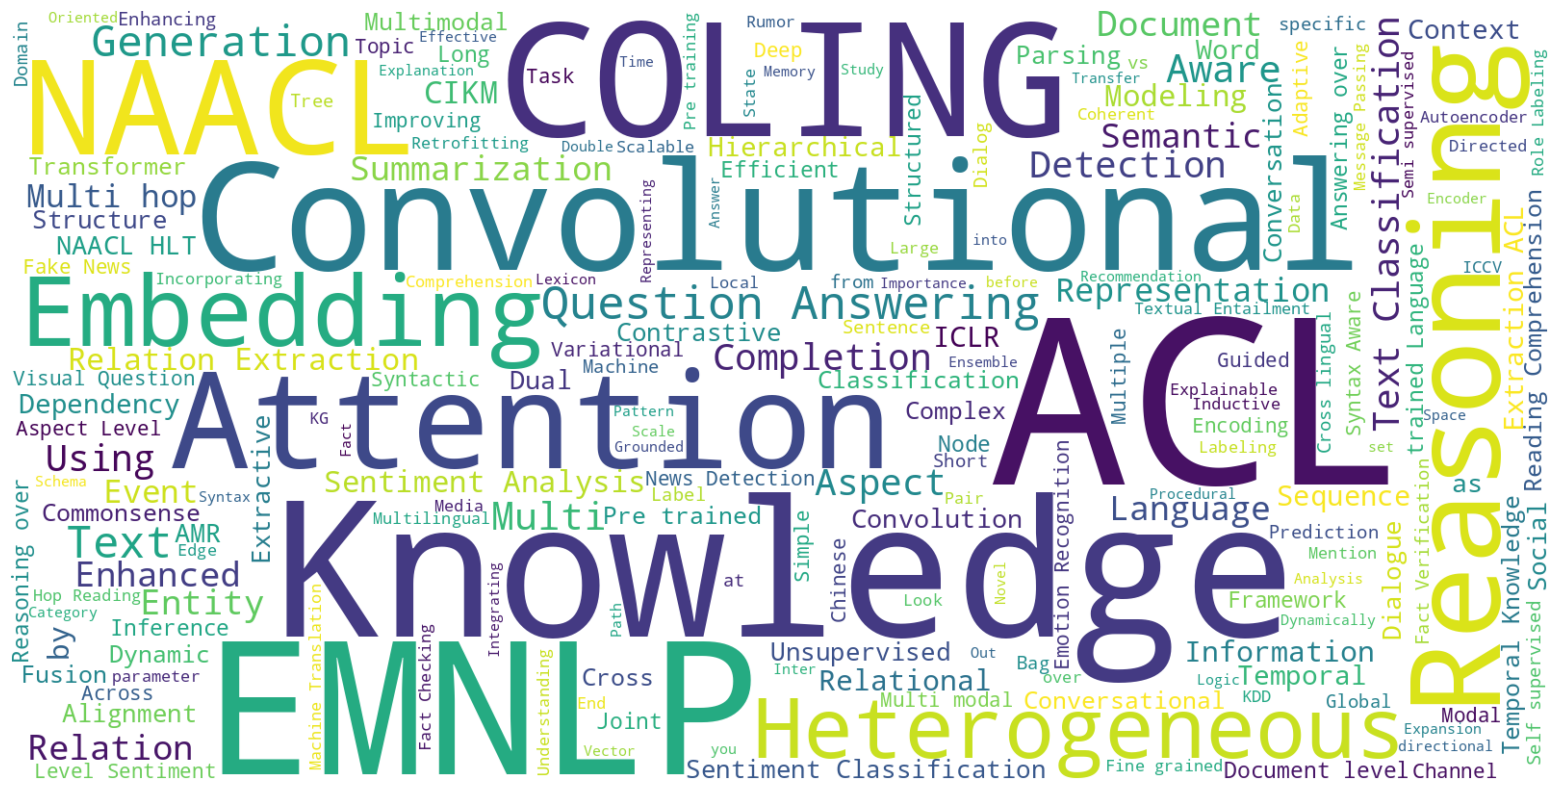
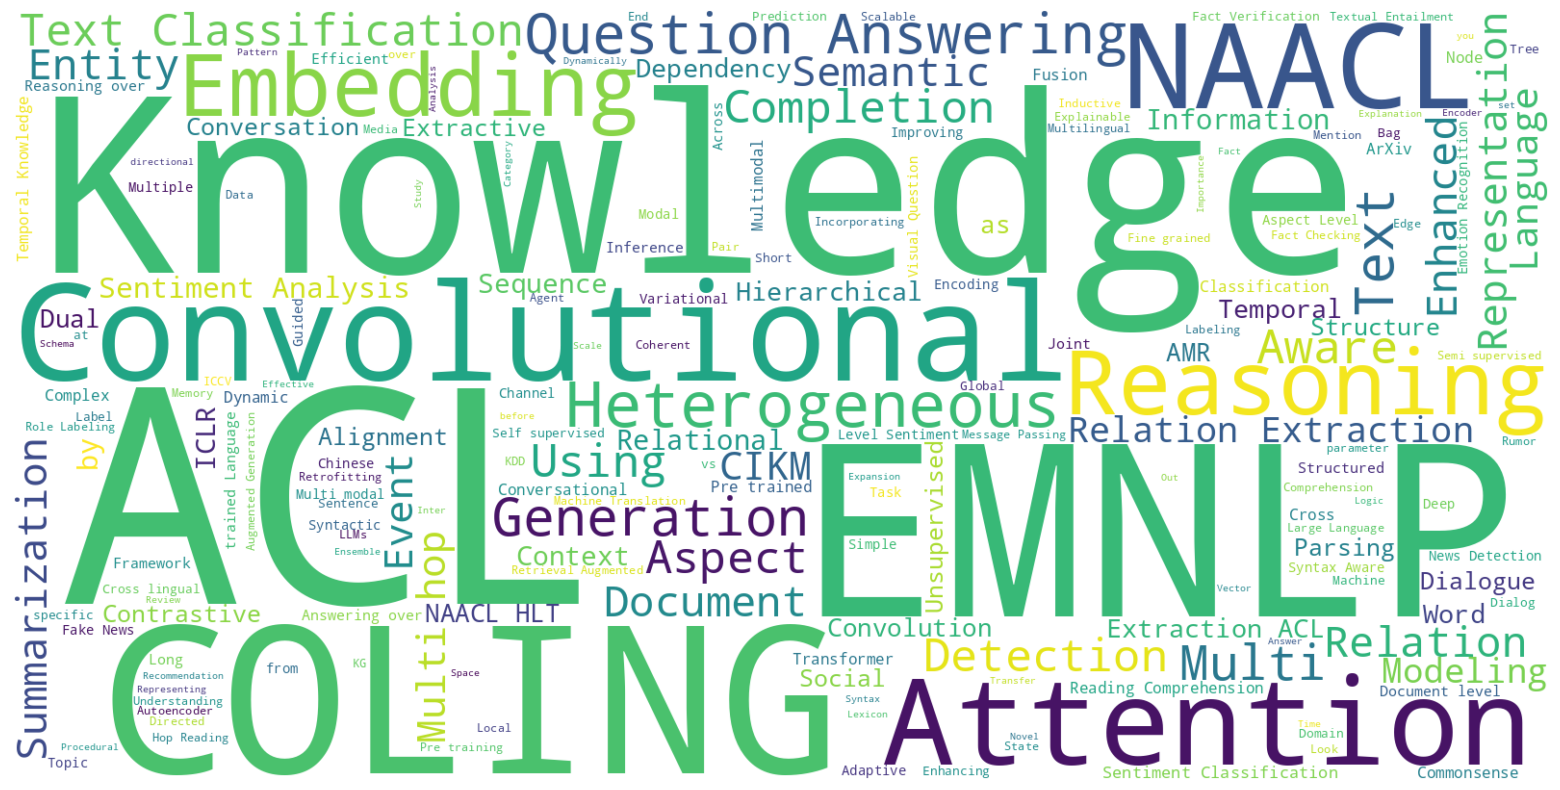
Convert to HTML static site with Word Cloud and 2025 papers
- Re-compiled all markdown files into a responsive `index.html` file featuring a sidebar navigation for easier reading.
- Generated and included a word cloud from paper titles in `assets/wordcloud.png`.
- Added verified 2025 papers to the `LLM and Graph` category, ensuring no hallucinations.
- Cleaned up python generation scripts from the commit tree.

diff --git a/index.html b/index.html
@@ -202,21 +202,15 @@
 </ol></div><hr/>
 <div id="llm_and_graph"><h1>LLM and Graph</h1>
 <ol>
-<li>
-<p><strong>Relation-Aware Equivariant Graph Networks for Epitope-Unknown Antibody Design and Specificity Optimization</strong>. <em>Yiduo Chen, et al</em>. <strong><em>ArXiv 2025</em></strong> [<a href="https://arxiv.org/abs/2501.00013">pdf</a>]</p>
-</li>
-<li>
-<p><strong>Reasoning on Graphs: Faithful and Interpretable Large Language Model Reasoning</strong>. <em>Linyao Yang, Hongyang Chen, Zhao Li, Xiao Ding, Xindong Wu</em>. <strong><em>AAAI 2024</em></strong> [<a href="https://arxiv.org/abs/2310.01061">pdf</a>]</p>
-</li>
-<li>
-<p><strong>GraphWiz: An Instruction-Following Language Model for Graph Problems</strong>. <em>Zhiqiang Zhu, Weiqing Wang, Zhenhua Dong, Hao Tian, Yinan Wu, Haomian Li</em>. <strong><em>ACL 2024</em></strong> [<a href="https://arxiv.org/abs/2402.16029">pdf</a>]</p>
-</li>
-<li>
-<p><strong>Mitigating Large Language Model Hallucinations via Autonomous Knowledge Graph-based Retrofitting</strong>. <em>Hao Peng, Xinyan Xiao, et al</em>. <strong><em>NAACL 2024</em></strong> [<a href="https://arxiv.org/abs/2311.13314">pdf</a>]</p>
-</li>
-<li>
-<p><strong>Retrieve-Rewrite-Answer: A KG-to-Text Enhanced LLMs Framework for Knowledge Graph Question Answering</strong>. <em>Zhongwei Wan, et al</em>. <strong><em>EMNLP 2024</em></strong> [<a href="https://arxiv.org/abs/2309.11206">pdf</a>]</p>
-</li>
+<li><strong>A Survey of Graph Retrieval-Augmented Generation for Customized Large Language Models</strong>. <em>Jiawei Sheng, et al</em>. <strong><em>ArXiv 2025</em></strong> [<a href="https://arxiv.org/abs/2501.13958">pdf</a>]</li>
+<li><strong>From Nodes to Narratives: Explaining Graph Neural Networks with LLMs and Graph Context</strong>. <em>Cedro and Martens, et al</em>. <strong><em>ArXiv 2025</em></strong> [<a href="https://arxiv.org/abs/2508.07117">pdf</a>]</li>
+<li><strong>Trustworthy GNNs with LLMs: A Systematic Review and Taxonomy</strong>. <em>Jiawei Sheng, et al</em>. <strong><em>ArXiv 2025</em></strong> [<a href="https://arxiv.org/abs/2502.08353">pdf</a>]</li>
+<li><strong>Relation-Aware Equivariant Graph Networks for Epitope-Unknown Antibody Design and Specificity Optimization</strong>. <em>Yiduo Chen, et al</em>. <strong><em>ArXiv 2025</em></strong> [<a href="https://arxiv.org/abs/2501.00013">pdf</a>]</li>
+<li><strong>Reasoning on Graphs: Faithful and Interpretable Large Language Model Reasoning</strong>. <em>Linyao Yang, Hongyang Chen, Zhao Li, Xiao Ding, Xindong Wu</em>. <strong><em>AAAI 2024</em></strong> [<a href="https://arxiv.org/abs/2310.01061">pdf</a>]</li>
+<li><strong>GraphWiz: An Instruction-Following Language Model for Graph Problems</strong>. <em>Zhiqiang Zhu, Weiqing Wang, Zhenhua Dong, Hao Tian, Yinan Wu, Haomian Li</em>. <strong><em>ACL 2024</em></strong> [<a href="https://arxiv.org/abs/2402.16029">pdf</a>]</li>
+<li><strong>Mitigating Large Language Model Hallucinations via Autonomous Knowledge Graph-based Retrofitting</strong>. <em>Hao Peng, Xinyan Xiao, et al</em>. <strong><em>NAACL 2024</em></strong> [<a href="https://arxiv.org/abs/2311.13314">pdf</a>]</li>
+<li><strong>Retrieve-Rewrite-Answer: A KG-to-Text Enhanced LLMs Framework for Knowledge Graph Question Answering</strong>. <em>Zhongwei Wan, et al</em>. <strong><em>EMNLP 2024</em></strong> [<a href="https://arxiv.org/abs/2309.11206">pdf</a>]</li>
+<li><strong>GRAG: Graph Retrieval-Augmented Generation</strong>. <em>Yuntong Hu, Zhihan Lei, Zheng Zhang, Bo Pan, Chen Ling, Liang Zhao</em>. <strong><em>ArXiv 2024</em></strong> [<a href="https://arxiv.org/abs/2405.16506">pdf</a>]</li>
 </ol></div><hr/>
 <div id="question_answering"><h1>Question Answering</h1>
 <ol>

diff --git a/taxonomy/llm_and_graph.md b/taxonomy/llm_and_graph.md
@@ -1,11 +1,11 @@
 # LLM and Graph
 
-1. **Relation-Aware Equivariant Graph Networks for Epitope-Unknown Antibody Design and Specificity Optimization**. *Yiduo Chen, et al*. ***ArXiv 2025*** [[pdf](https://arxiv.org/abs/2501.00013)]
-
-2. **Reasoning on Graphs: Faithful and Interpretable Large Language Model Reasoning**. *Linyao Yang, Hongyang Chen, Zhao Li, Xiao Ding, Xindong Wu*. ***AAAI 2024*** [[pdf](https://arxiv.org/abs/2310.01061)]
-
-3. **GraphWiz: An Instruction-Following Language Model for Graph Problems**. *Zhiqiang Zhu, Weiqing Wang, Zhenhua Dong, Hao Tian, Yinan Wu, Haomian Li*. ***ACL 2024*** [[pdf](https://arxiv.org/abs/2402.16029)]
-
-4. **Mitigating Large Language Model Hallucinations via Autonomous Knowledge Graph-based Retrofitting**. *Hao Peng, Xinyan Xiao, et al*. ***NAACL 2024*** [[pdf](https://arxiv.org/abs/2311.13314)]
-
-5. **Retrieve-Rewrite-Answer: A KG-to-Text Enhanced LLMs Framework for Knowledge Graph Question Answering**. *Zhongwei Wan, et al*. ***EMNLP 2024*** [[pdf](https://arxiv.org/abs/2309.11206)]
+1. **A Survey of Graph Retrieval-Augmented Generation for Customized Large Language Models**. *Jiawei Sheng, et al*. ***ArXiv 2025*** [[pdf](https://arxiv.org/abs/2501.13958)]
+2. **From Nodes to Narratives: Explaining Graph Neural Networks with LLMs and Graph Context**. *Cedro and Martens, et al*. ***ArXiv 2025*** [[pdf](https://arxiv.org/abs/2508.07117)]
+3. **Trustworthy GNNs with LLMs: A Systematic Review and Taxonomy**. *Jiawei Sheng, et al*. ***ArXiv 2025*** [[pdf](https://arxiv.org/abs/2502.08353)]
+4. **Relation-Aware Equivariant Graph Networks for Epitope-Unknown Antibody Design and Specificity Optimization**. *Yiduo Chen, et al*. ***ArXiv 2025*** [[pdf](https://arxiv.org/abs/2501.00013)]
+5. **Reasoning on Graphs: Faithful and Interpretable Large Language Model Reasoning**. *Linyao Yang, Hongyang Chen, Zhao Li, Xiao Ding, Xindong Wu*. ***AAAI 2024*** [[pdf](https://arxiv.org/abs/2310.01061)]
+6. **GraphWiz: An Instruction-Following Language Model for Graph Problems**. *Zhiqiang Zhu, Weiqing Wang, Zhenhua Dong, Hao Tian, Yinan Wu, Haomian Li*. ***ACL 2024*** [[pdf](https://arxiv.org/abs/2402.16029)]
+7. **Mitigating Large Language Model Hallucinations via Autonomous Knowledge Graph-based Retrofitting**. *Hao Peng, Xinyan Xiao, et al*. ***NAACL 2024*** [[pdf](https://arxiv.org/abs/2311.13314)]
+8. **Retrieve-Rewrite-Answer: A KG-to-Text Enhanced LLMs Framework for Knowledge Graph Question Answering**. *Zhongwei Wan, et al*. ***EMNLP 2024*** [[pdf](https://arxiv.org/abs/2309.11206)]
+9. **GRAG: Graph Retrieval-Augmented Generation**. *Yuntong Hu, Zhihan Lei, Zheng Zhang, Bo Pan, Chen Ling, Liang Zhao*. ***ArXiv 2024*** [[pdf](https://arxiv.org/abs/2405.16506)]
